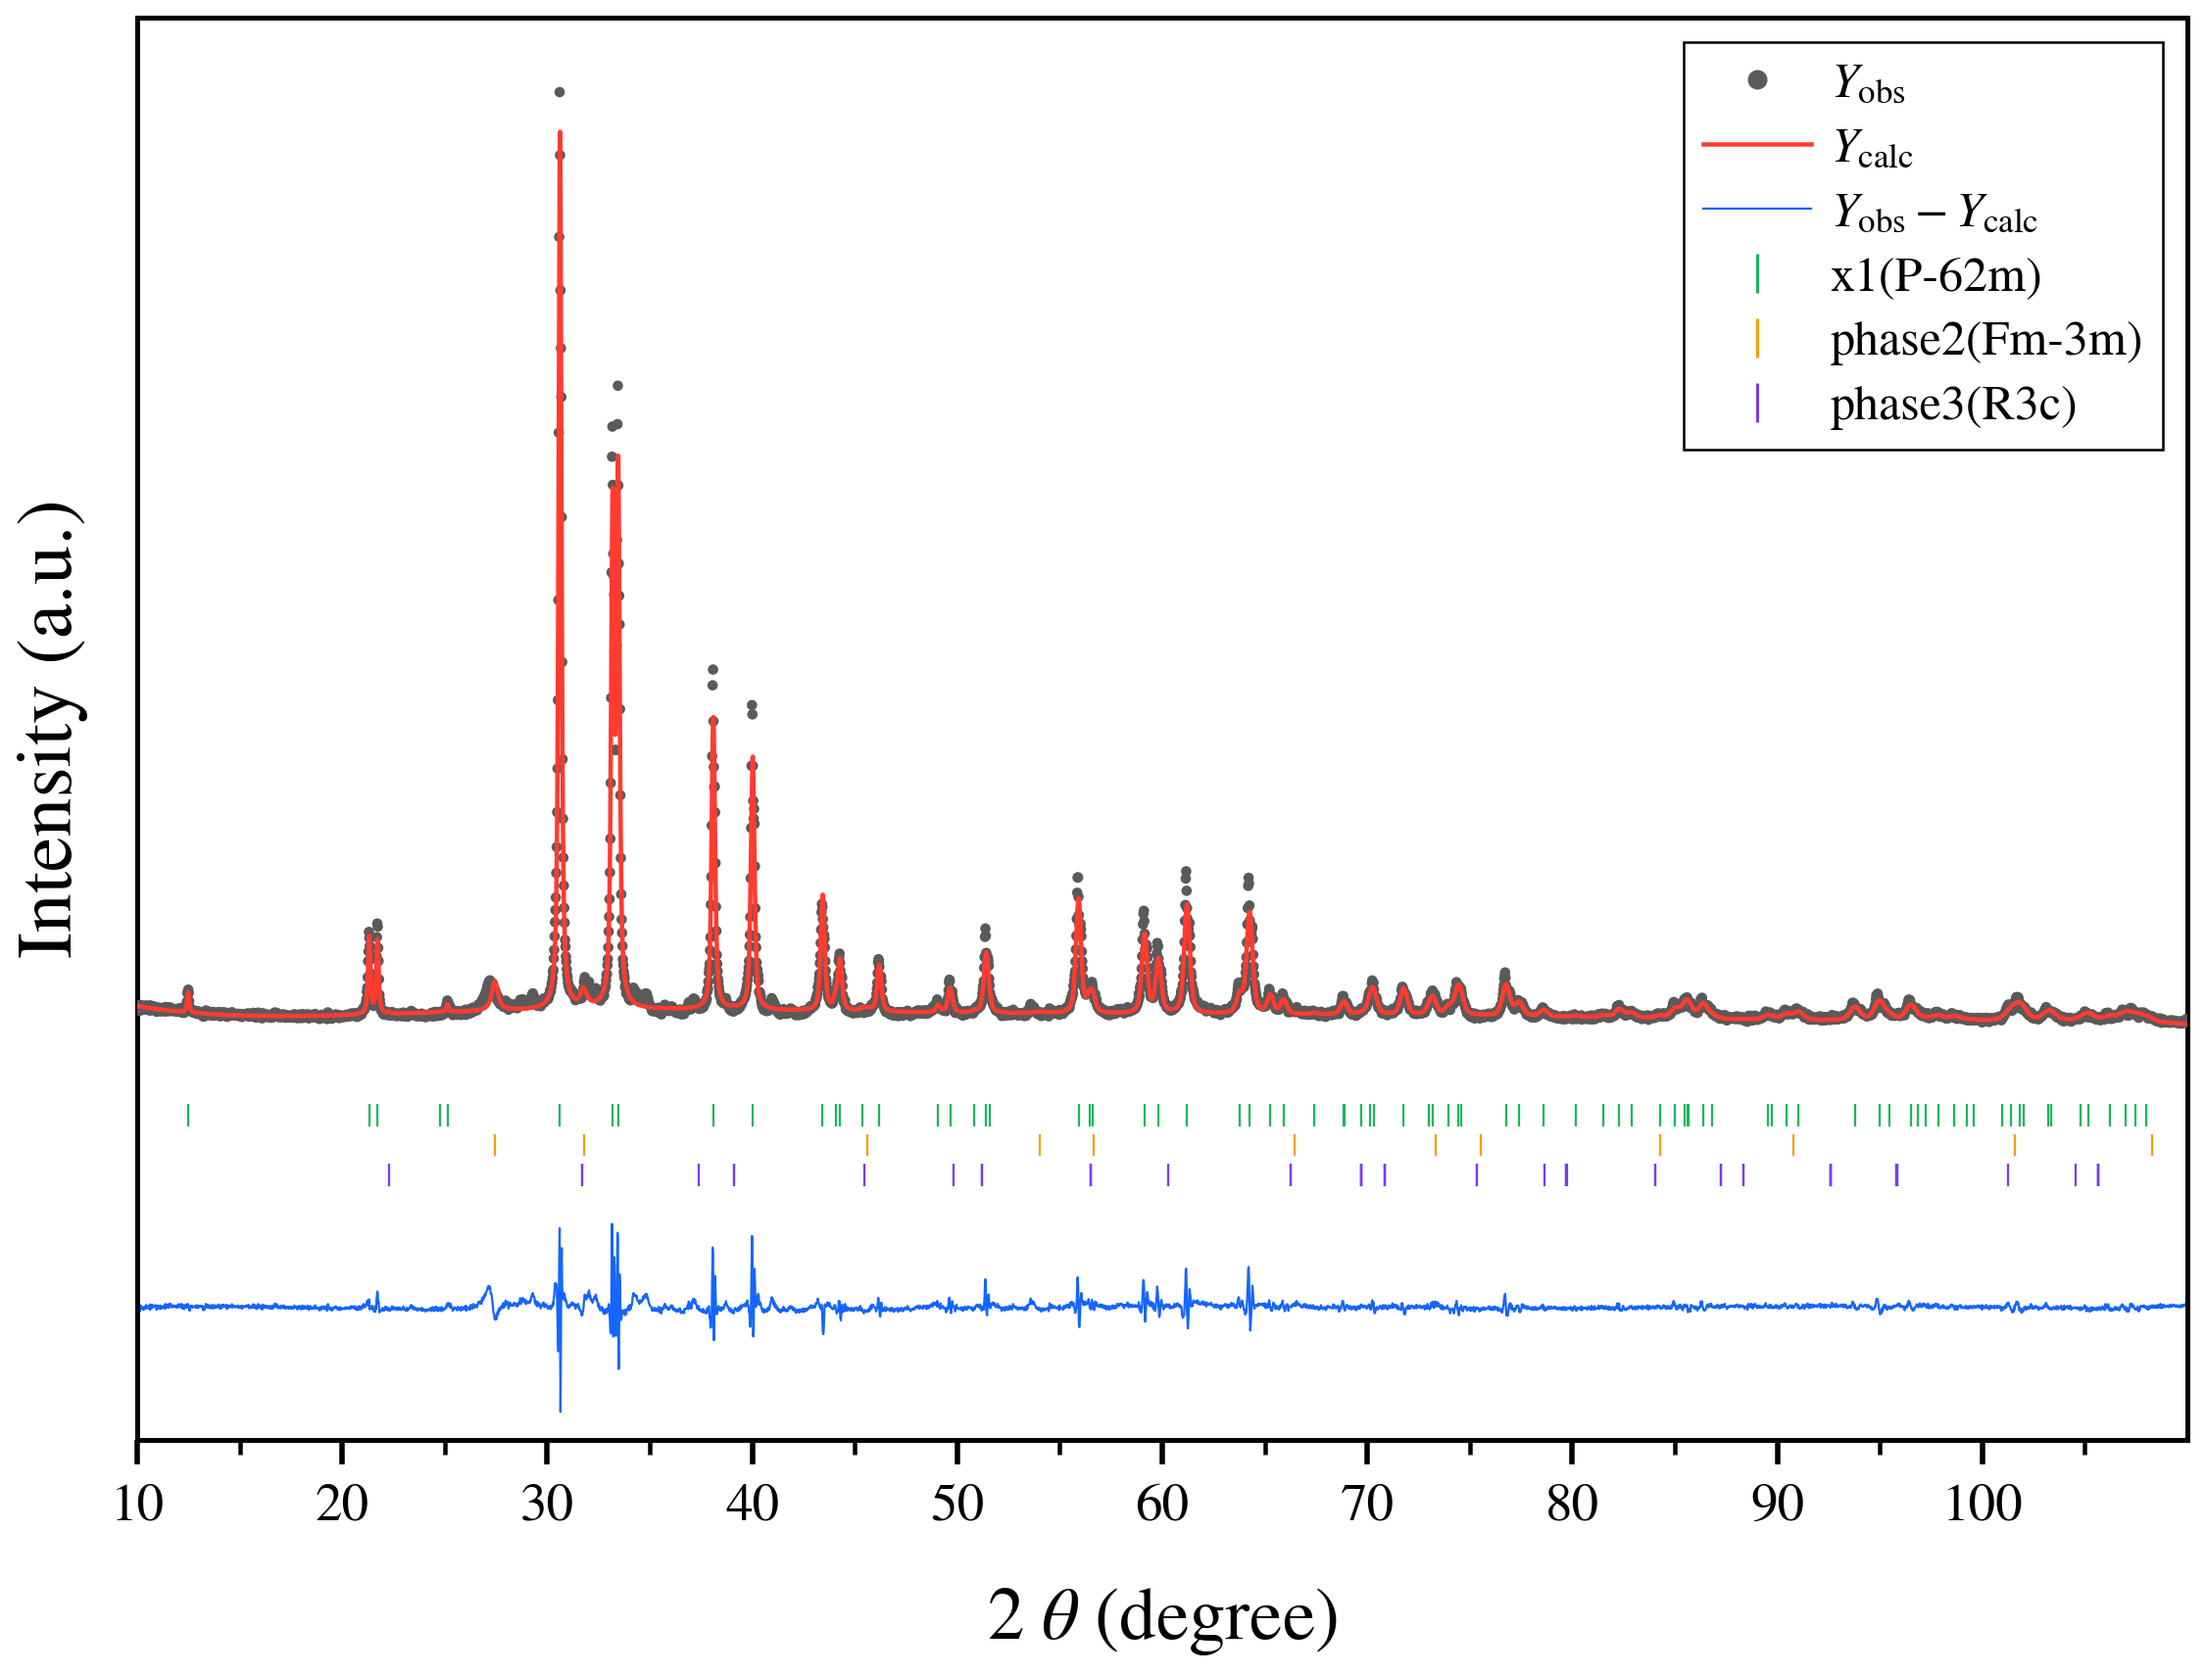
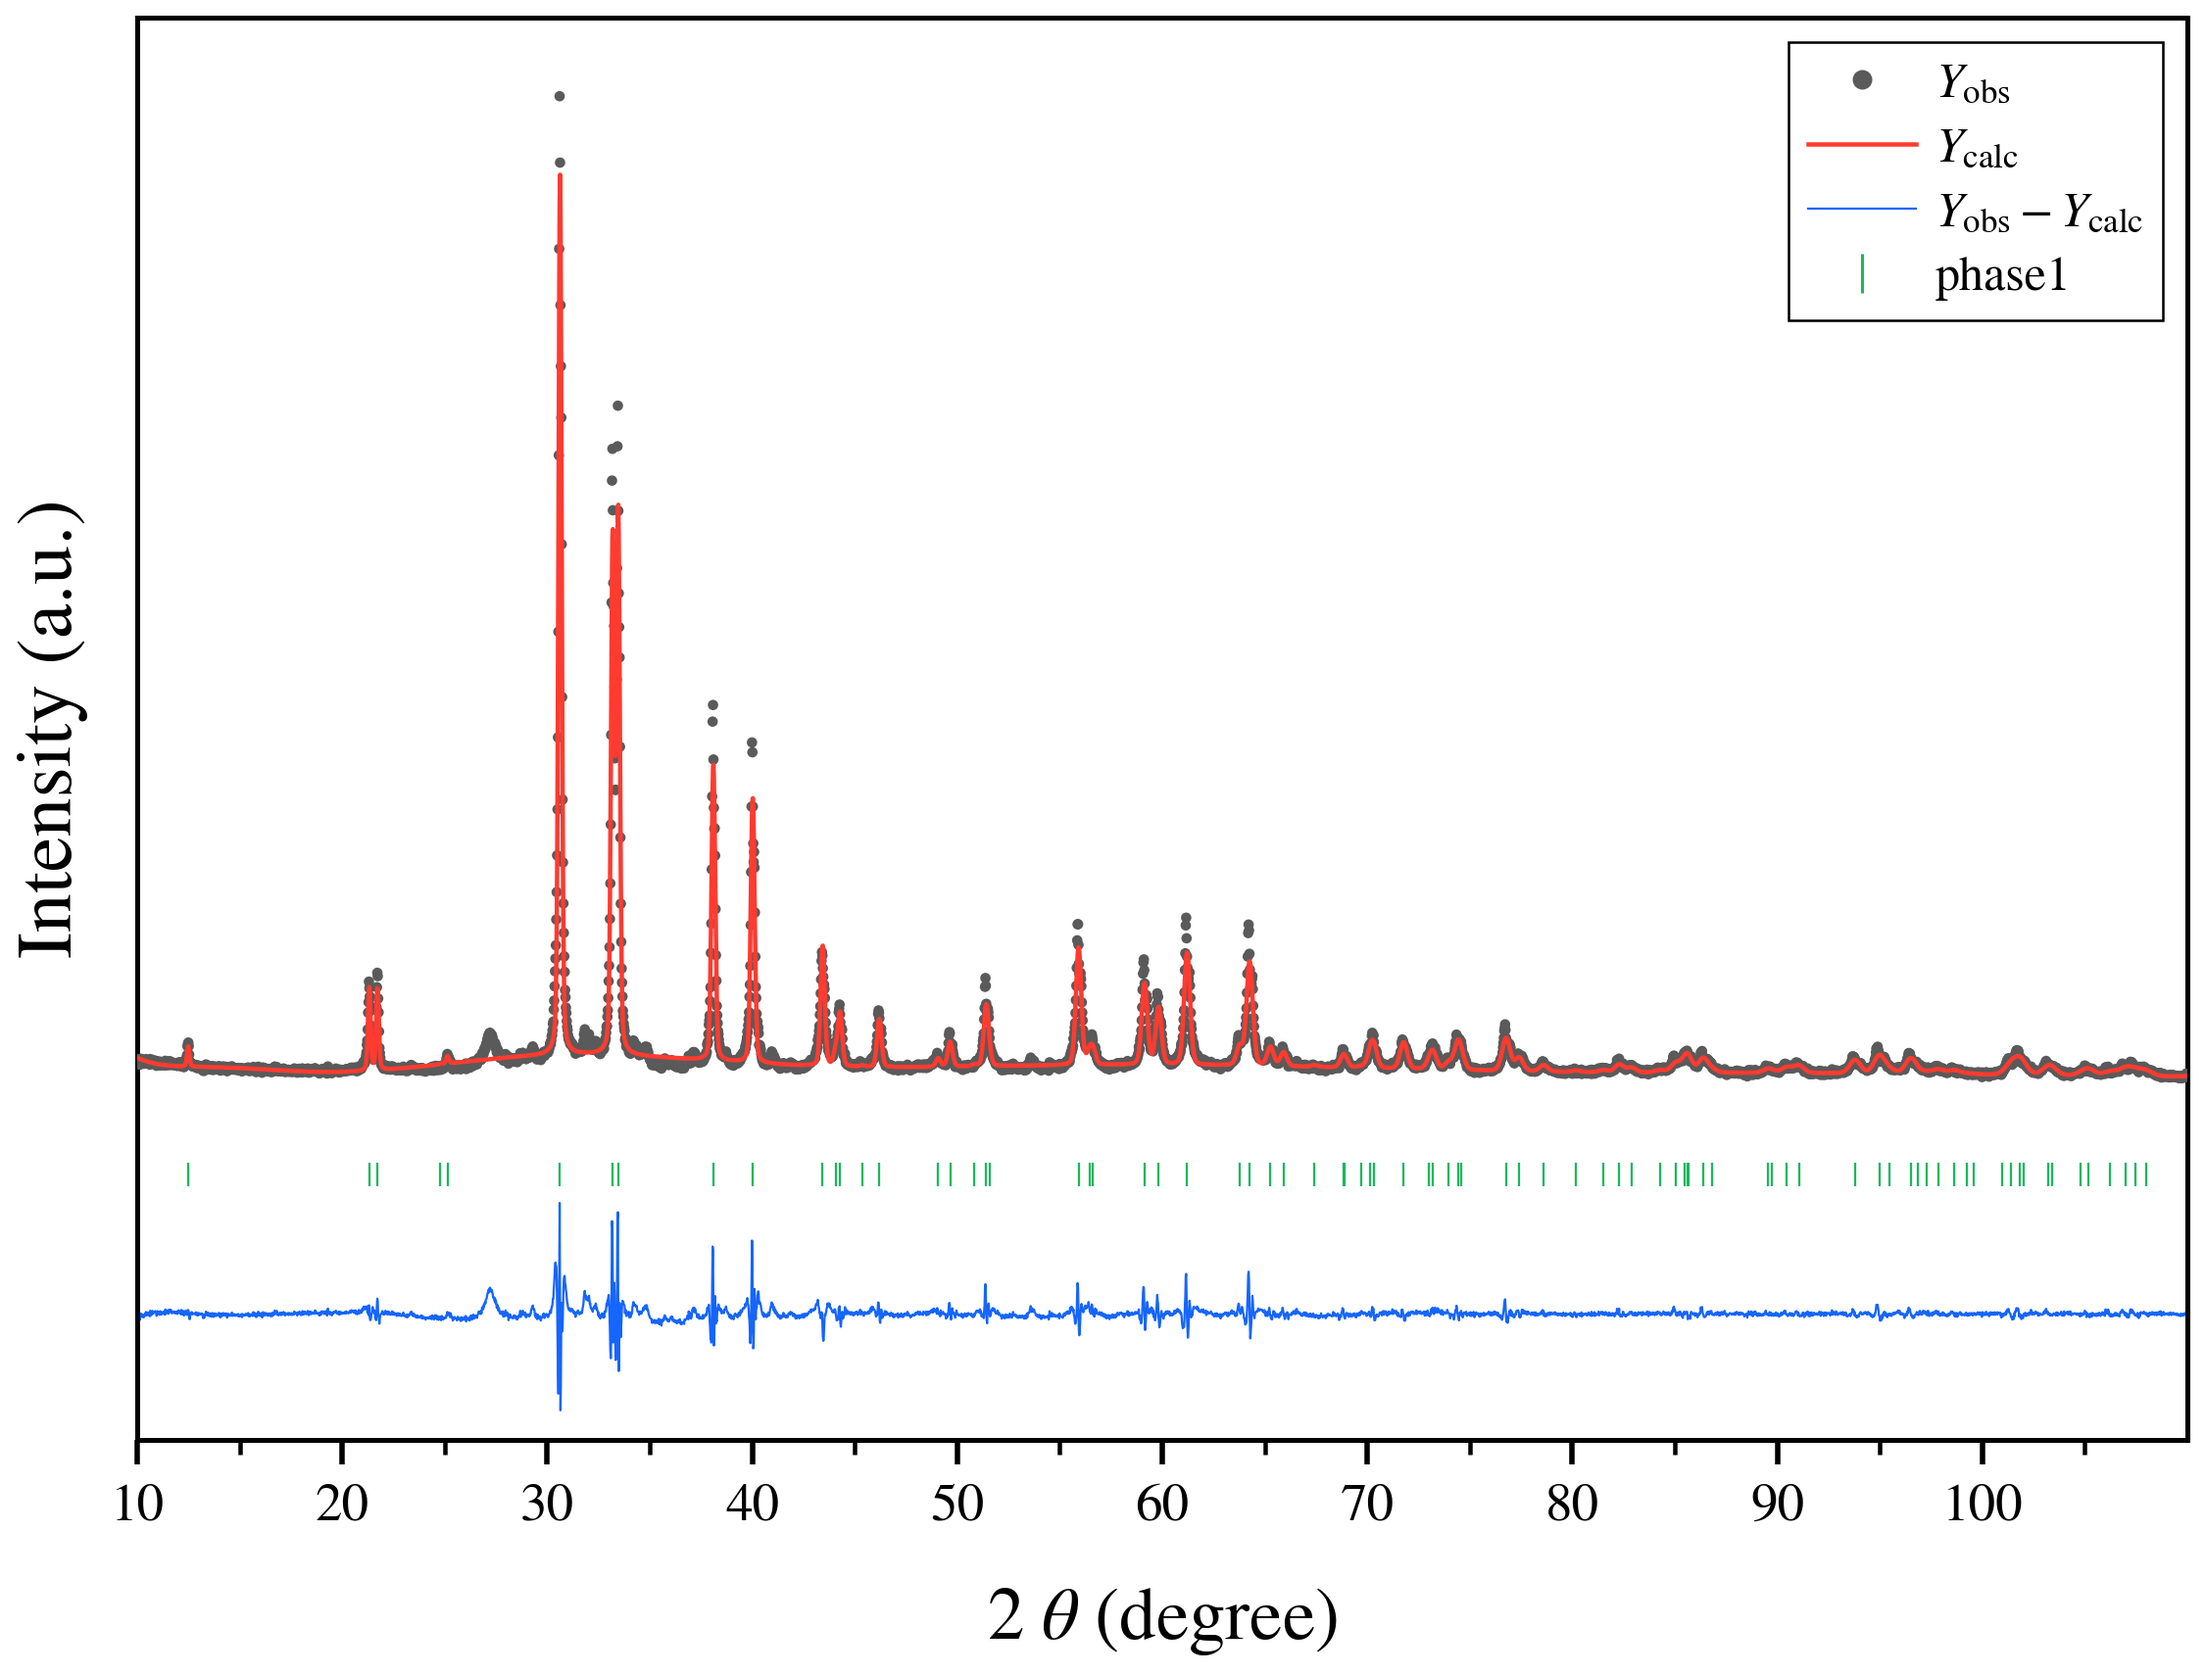
Use x1 README example and simplify phase labels

diff --git a/gsas2-xrd-refinement/scripts/refine_gsas2.py b/gsas2-xrd-refinement/scripts/refine_gsas2.py
@@ -553,10 +553,6 @@ def compact_space_group_label(space_group: str | None) -> str:
 
 
 def phase_plot_label(phase) -> str:
-    general = phase.data.get("General", {})
-    space_group = compact_space_group_label(general.get("SGData", {}).get("SpGrp"))
-    if space_group:
-        return f"{phase.name}({space_group})"
     return str(phase.name)
 
 

diff --git a/README.md b/README.md
@@ -2,7 +2,7 @@
 
 Chinese | [English](#english)
 
-![Example multiphase fit](docs/example_multiphase_fit.png)
+![x1 single-phase fit](docs/example_multiphase_fit.png)
 
 ## 中文
 
@@ -61,6 +61,7 @@ Chinese | [English](#english)
    - 蓝色差谱 `Yobs - Ycalc`
    - 绿色或分彩色布拉格位置刻线
    - 适合论文或汇报风格的 Rietveld 图
+   - README 示例图使用 `x1` 数据，图例相名显示为 `phase1`
 
 ### 仓库结构
 
@@ -239,6 +240,7 @@ It supports:
    - blue `Yobs - Ycalc` difference curve
    - Bragg-position tick marks
    - Rietveld-style layout suitable for reports and manuscripts
+   - the README example uses the `x1` single-phase pattern and shows the phase label as `phase1`
 
 ### Repository Layout
 
